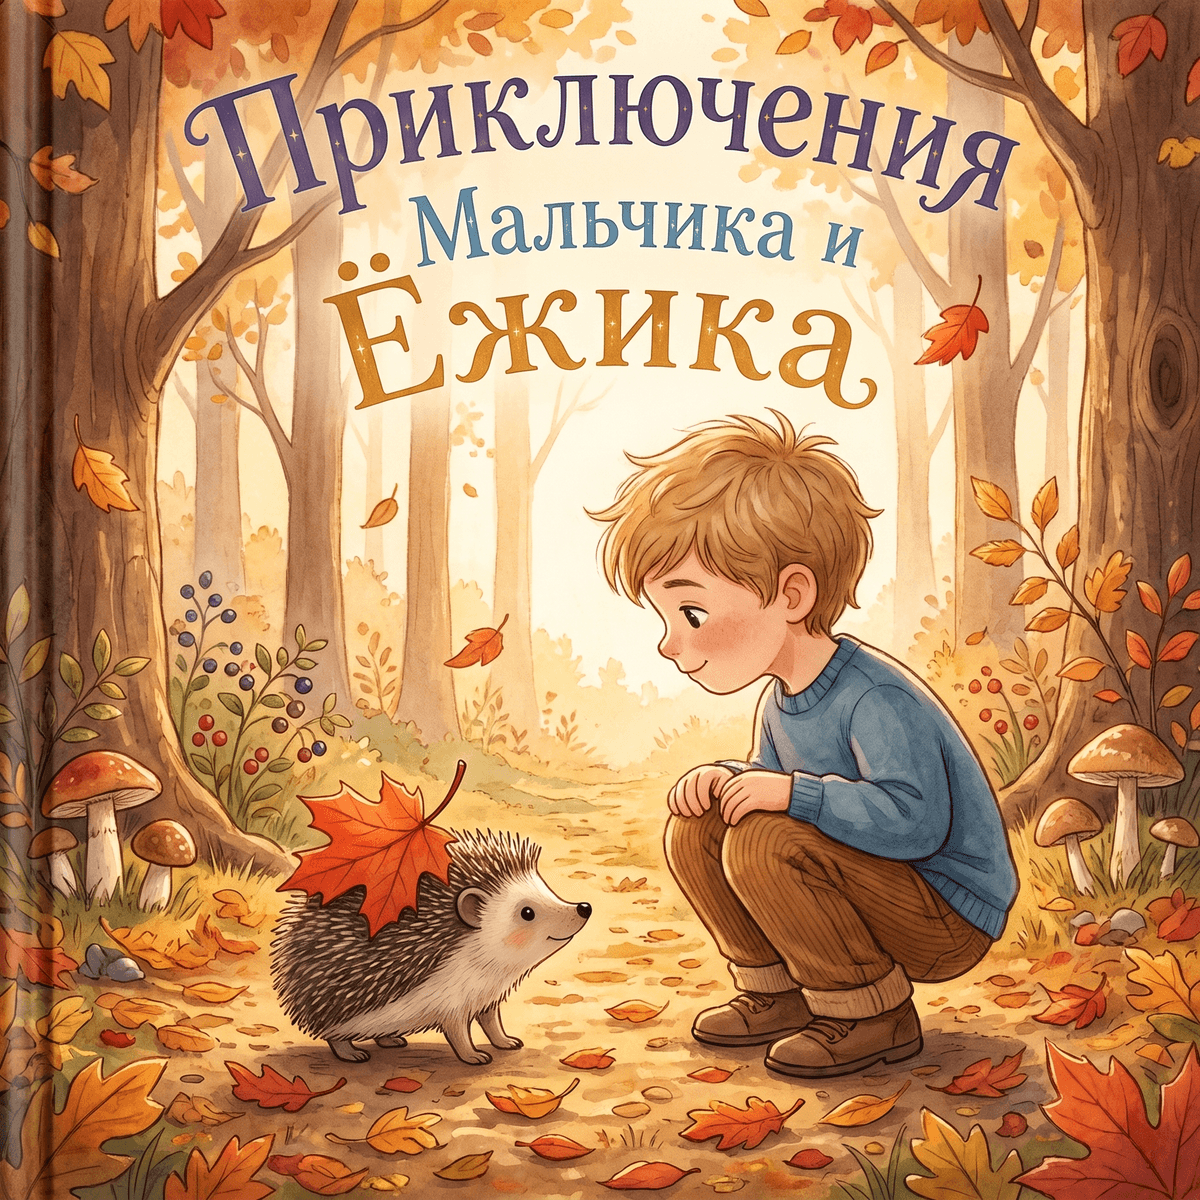
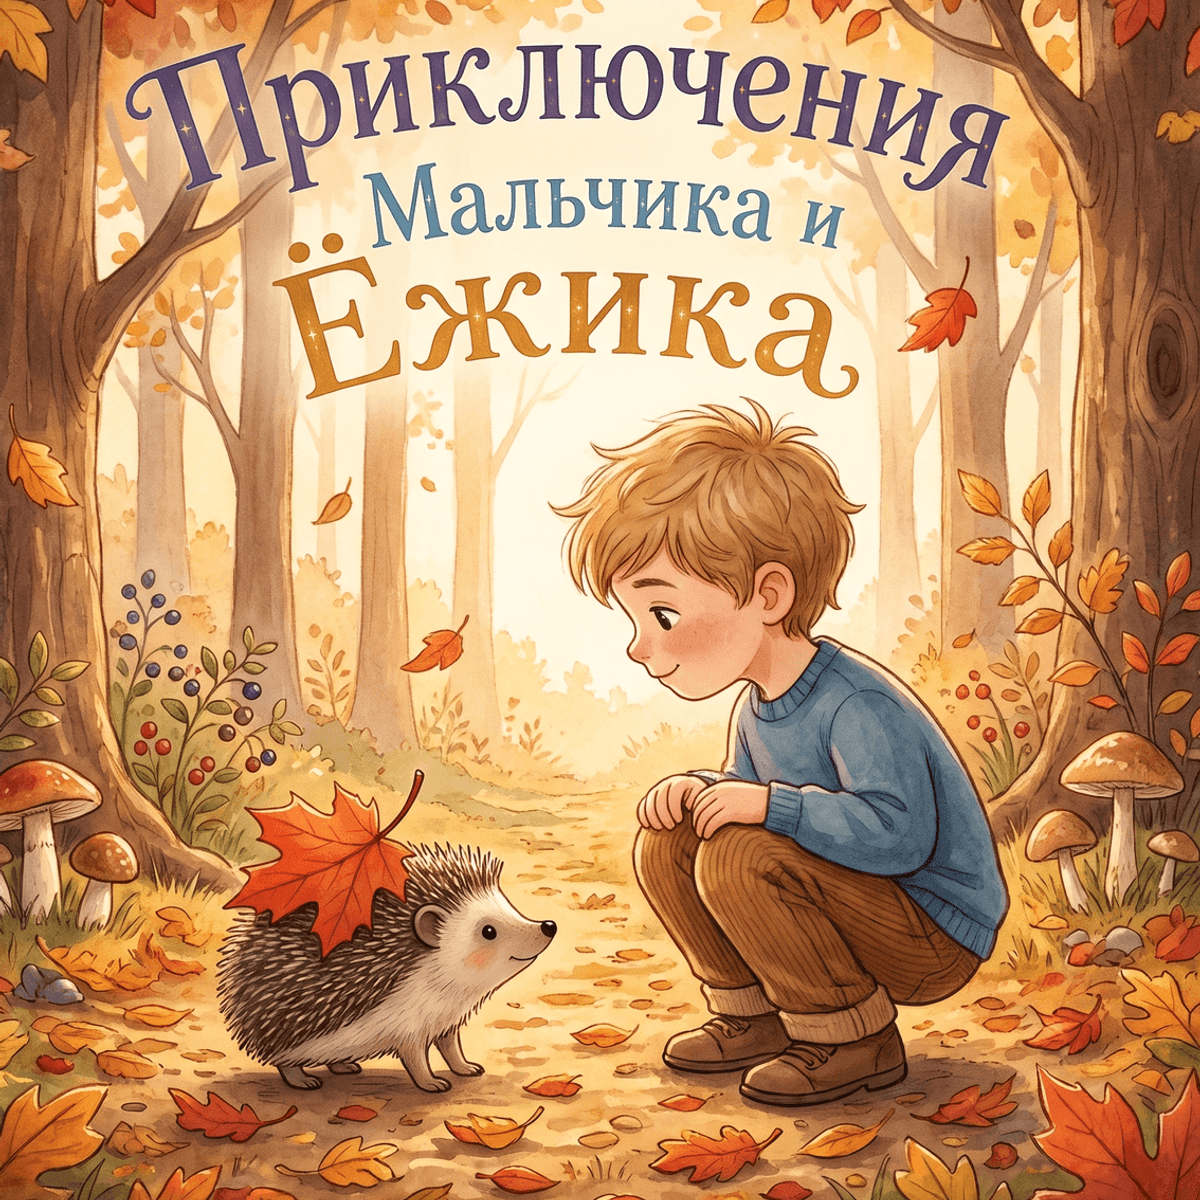
Give every cover the same binding, everywhere it appears
The spine drawn in the last commit was a translucent dark gradient laid over
the artwork. It was clearly visible on a pale sky and invisible on a dark
forest, so half the catalogue read as a bound book and half as a flat PNG —
exactly the difference between the two covers in the screenshots.

It is now structural rather than tonal: an opaque board beside the face,
not a shadow on top of it, so it looks the same however light or dark the
artwork is. Two files (boy-ezhik, boy-sovenok) still carried a baked-in
spine of their own that would have doubled with it; trimmed off the left.

The other half of the inconsistency was that four places drew covers as bare
<Image> instead of going through BookCover — the homepage hero and its pair
of stacked books, the same two arrangements on how-it-works and about — so
those covers had no binding at all no matter what the component did. They go
through BookCover now, as does the generated preview cover, which needed a
way to skip the image optimizer (it is served through a redirect the
optimizer cannot follow).

Two of those arrangements overlap exactly two covers, and both were mapping
the whole catalogue: eighteen books turned the illustration into a ribbon of
thumbnails. Capped at the pair they were drawn for.

While in the copy: three places still told visitors there were two stories
about Колёсик. There are eighteen, for ages 2 to 9. The about page counts
them from the catalogue rather than repeating a number that will go stale.

diff --git a/src/components/books/BookCover.tsx b/src/components/books/BookCover.tsx
@@ -11,6 +11,12 @@ interface BookCoverProps {
   className?: string;
   /** Adds a soft warm halo behind the cover — for hero and product moments. */
   glow?: boolean;
+  /**
+   * Skips Next's image optimizer. Required for a generated illustration: it is
+   * served from /api/uploads, which authorizes the viewer and then redirects to
+   * a short-lived signed URL, and the optimizer cannot follow that.
+   */
+  unoptimized?: boolean;
 }
 
 const sizeHints: Record<CoverSize, string> = {
@@ -20,17 +26,17 @@ const sizeHints: Record<CoverSize, string> = {
 };
 
 /**
- * A book, not a picture.
+ * A bound book, not a picture of one.
  *
- * The artwork files are flat square covers with no spine, corners or shadow —
- * deliberately, because when that presentation was baked into the images every
- * cover carried a slightly different version of it and the catalogue grid
- * showed books at visibly different sizes and finishes.
+ * The artwork files are flat cover faces. Everything that makes it read as a
+ * physical book is drawn here, so it is identical on every product however
+ * light or dark the artwork happens to be.
  *
- * It is drawn here instead, so it is identical on every product by
- * construction: a bound edge down the left, corners rounded more on the fore
- * edge than at the spine as a real hardback is, a highlight along the top where
- * the light catches the board, and a shadow underneath to lift it off the page.
+ * The spine is an opaque band with the face sitting beside it, not a shadow
+ * laid over the artwork. That was the first attempt and it failed exactly where
+ * it mattered: a translucent dark gradient is clearly visible over a pale sky
+ * and invisible over a dark forest, so half the catalogue looked bound and half
+ * looked like a flat PNG.
  */
 export default function BookCover({
   book,
@@ -38,6 +44,7 @@ export default function BookCover({
   priority = false,
   className,
   glow = false,
+  unoptimized = false,
 }: BookCoverProps) {
   return (
     <div className={cn("relative aspect-square w-full", className)}>
@@ -48,48 +55,56 @@ export default function BookCover({
         />
       )}
 
-      <div className="relative h-full w-full">
-        {/* rounded-l-sm / rounded-r-lg: a hardback's fore edge is noticeably
-            rounder than its spine, and matching that is most of what makes the
-            shape read as a book rather than a card. */}
-        <div className="relative h-full w-full overflow-hidden rounded-l-sm rounded-r-lg shadow-[0_10px_28px_-8px_rgba(74,45,26,0.35)]">
+      {/* rounded-r more than rounded-l: a hardback's fore edge is noticeably
+          rounder than its spine, and matching that is most of what makes the
+          silhouette read as a book. */}
+      <div className="relative flex h-full w-full overflow-hidden rounded-l-[3px] rounded-r-xl shadow-[0_12px_30px_-10px_rgba(74,45,26,0.45)]">
+        {/* ── The bound edge ──
+            Five stops across five percent of the width: the dark outer board,
+            the lit curve of the binding, the crease where it turns, and the
+            shadow it casts onto the face. Flat colour here reads as a printed
+            stripe; it is the curve that reads as a spine. */}
+        <div
+          aria-hidden="true"
+          className="relative h-full w-[5%] shrink-0 bg-[linear-gradient(to_right,#2f1b0f_0%,#4a2d1a_28%,#6b4630_52%,#3a2315_78%,#241109_100%)]"
+        >
+          {/* Highlight along the top edge of the boards. */}
+          <span className="absolute inset-x-0 top-0 h-[1.5%] bg-white/25" />
+        </div>
+
+        {/* ── The face ── */}
+        <div className="relative h-full flex-1">
           <Image
             src={book.image}
             alt={`Обложка книги «${book.title}»`}
             fill
             priority={priority}
+            unoptimized={unoptimized}
             sizes={sizeHints[size]}
             className="object-cover"
           />
 
-          {/* The bound edge. Two stops rather than one: a hard dark line where
-              the boards meet, then a short gradient for the curve of the spine.
-              A single flat bar reads as a printed stripe, not as binding. */}
-          <div
+          {/* Shadow the spine throws across the gutter. */}
+          <span
             aria-hidden="true"
-            className="pointer-events-none absolute inset-y-0 left-0 w-[4.5%] bg-gradient-to-r from-black/45 via-black/15 to-transparent"
+            className="pointer-events-none absolute inset-y-0 left-0 w-[7%] bg-gradient-to-r from-black/28 to-transparent"
           />
-          <div
+          {/* Light on the top board, and the fore edge turning away. */}
+          <span
             aria-hidden="true"
-            className="pointer-events-none absolute inset-y-0 left-0 w-px bg-black/30"
+            className="pointer-events-none absolute inset-x-0 top-0 h-[2%] bg-gradient-to-b from-white/20 to-transparent"
           />
-
-          {/* Light catching the top board, and the fore edge falling away. */}
-          <div
+          <span
             aria-hidden="true"
-            className="pointer-events-none absolute inset-x-0 top-0 h-[2%] bg-gradient-to-b from-white/25 to-transparent"
-          />
-          <div
-            aria-hidden="true"
-            className="pointer-events-none absolute inset-y-0 right-0 w-[1.5%] bg-gradient-to-l from-black/12 to-transparent"
-          />
-
-          {/* Keeps the artwork from bleeding into the rounded corner. */}
-          <div
-            aria-hidden="true"
-            className="pointer-events-none absolute inset-0 rounded-l-sm rounded-r-lg ring-1 ring-inset ring-black/10"
+            className="pointer-events-none absolute inset-y-0 right-0 w-[2%] bg-gradient-to-l from-black/18 to-transparent"
           />
         </div>
+
+        {/* Keeps the artwork off the rounded corner and gives the boards an edge. */}
+        <span
+          aria-hidden="true"
+          className="pointer-events-none absolute inset-0 rounded-l-[3px] rounded-r-xl ring-1 ring-inset ring-black/15"
+        />
       </div>
     </div>
   );

diff --git a/src/app/(main)/how-it-works/page.tsx b/src/app/(main)/how-it-works/page.tsx
@@ -1,6 +1,5 @@
 import type { Metadata } from "next";
 import Link from "next/link";
-import Image from "next/image";
 import {
   BookOpenCheck,
   PenLine,
@@ -9,6 +8,7 @@ import {
   Check,
   ShieldCheck,
 } from "lucide-react";
+import BookCover from "@/components/books/BookCover";
 import Reveal from "@/components/shared/Reveal";
 import SectionDivider from "@/components/shared/SectionDivider";
 import StoryVideoHero from "@/components/media/StoryVideoHero";
@@ -25,7 +25,7 @@ const steps = [
   {
     icon: BookOpenCheck,
     title: "Выберите историю",
-    text: "Две сказки о говорящем автомобильчике Колёсике — одна про мальчика, другая про девочку. Обе одинаковой длины и качества печати.",
+    text: "Истории про машинки, животных и чудеса — отдельно для мальчика и для девочки, от 2 до 9 лет. Все книги одинаковой длины и качества печати.",
   },
   {
     icon: PenLine,
@@ -59,6 +59,10 @@ export const dynamic = "force-dynamic";
 export default async function HowItWorksPage() {
   const catalogue = await getPublishedProducts();
   const heroBook = catalogue.find((b) => b.available) ?? catalogue[0];
+  // Two covers, layered like books on a table. The catalogue has grown well
+  // past the pair this arrangement was drawn for; rendering all of it turned
+  // the illustration into a ribbon of thumbnails.
+  const stack = catalogue.slice(0, 2);
 
   return (
     <>
@@ -81,14 +85,9 @@ export default async function HowItWorksPage() {
               className="shadow-elevated ring-1 ring-white/60"
               fallback={
                 <div className="relative flex h-full w-full items-center justify-center bg-gradient-to-br from-cream-200 via-cream-100 to-gold-100">
-                  <Image
-                    src={heroBook.image}
-                    alt={`Обложка книги «${heroBook.title}»`}
-                    width={520}
-                    height={520}
-                    priority
-                    className="h-[86%] w-auto object-contain drop-shadow-2xl"
-                  />
+                  <div className="w-[46%] max-w-[360px]">
+                    <BookCover book={heroBook} size="md" priority />
+                  </div>
                 </div>
               }
             />
@@ -181,19 +180,17 @@ export default async function HowItWorksPage() {
                   aria-hidden="true"
                   className="absolute inset-8 rounded-full bg-gold-200/35 blur-3xl"
                 />
-                {catalogue.map((book, i) => (
-                  <Image
+                {stack.map((book, i) => (
+                  <div
                     key={book.id}
-                    src={book.image}
-                    alt={`Обложка книги «${book.title}»`}
-                    width={440}
-                    height={440}
                     className={
                       i === 0
-                        ? "relative w-[48%] -rotate-3 rounded-3xl drop-shadow-2xl"
-                        : "relative -ml-8 w-[48%] rotate-3 rounded-3xl drop-shadow-2xl"
+                        ? "relative w-[48%] -rotate-3"
+                        : "relative z-10 -ml-8 w-[48%] rotate-3"
                     }
-                  />
+                  >
+                    <BookCover book={book} size="sm" />
+                  </div>
                 ))}
               </div>
             </Reveal>

diff --git a/src/app/(main)/page.tsx b/src/app/(main)/page.tsx
@@ -1,5 +1,4 @@
 import Link from "next/link";
-import Image from "next/image";
 import {
   BookHeart,
   Camera,
@@ -11,6 +10,7 @@ import {
   PackageOpen,
 } from "lucide-react";
 import BookCard from "@/components/books/BookCard";
+import BookCover from "@/components/books/BookCover";
 import TestimonialCard from "@/components/shared/TestimonialCard";
 import FAQAccordion from "@/components/shared/FAQAccordion";
 import Reveal from "@/components/shared/Reveal";
@@ -34,7 +34,7 @@ const steps = [
   {
     icon: BookOpenCheck,
     title: "Выберите историю",
-    text: "Две сказки о Колёсике — для мальчика и для девочки.",
+    text: "Истории про машинки, животных и чудеса — отдельно для мальчика и для девочки, от 2 до 9 лет.",
   },
   {
     icon: PenLine,
@@ -144,14 +144,9 @@ export default async function HomePage() {
                 className="shadow-elevated ring-1 ring-white/60"
                 fallback={
                   <div className="relative flex h-full w-full items-center justify-center bg-gradient-to-br from-brand-200 via-brand-100 to-cream-100">
-                    <Image
-                      src={heroBook.image}
-                      alt={`Обложка книги «${heroBook.title}»`}
-                      width={520}
-                      height={520}
-                      priority
-                      className="h-[86%] w-auto object-contain drop-shadow-2xl"
-                    />
+                    <div className="w-[62%] max-w-[360px]">
+                      <BookCover book={heroBook} size="md" priority />
+                    </div>
                   </div>
                 }
               />
@@ -276,24 +271,17 @@ export default async function HomePage() {
                 {/* Two covers, layered like books on a table */}
                 <div className="relative flex items-center justify-center">
                   {secondCover && (
-                    <Image
-                      src={secondCover.image}
-                      alt=""
-                      aria-hidden="true"
-                      width={420}
-                      height={420}
-                      className="w-[52%] -rotate-6 rounded-2xl drop-shadow-2xl"
-                    />
+                    <div aria-hidden="true" className="w-[52%] -rotate-6">
+                      <BookCover book={secondCover} size="sm" />
+                    </div>
                   )}
-                  <Image
-                    src={heroBook.image}
-                    alt={`Обложка книги «${heroBook.title}»`}
-                    width={460}
-                    height={460}
-                    className={`w-[58%] rotate-3 rounded-2xl drop-shadow-2xl ${
+                  <div
+                    className={`relative z-10 w-[58%] rotate-3 ${
                       secondCover ? "-ml-14" : ""
                     }`}
-                  />
+                  >
+                    <BookCover book={heroBook} size="md" />
+                  </div>
                 </div>
               </div>
             </Reveal>

diff --git a/src/app/(main)/about/page.tsx b/src/app/(main)/about/page.tsx
@@ -1,7 +1,7 @@
 import type { Metadata } from "next";
 import Link from "next/link";
-import Image from "next/image";
 import { Heart, Printer, ShieldCheck, Sparkles } from "lucide-react";
+import BookCover from "@/components/books/BookCover";
 import Reveal from "@/components/shared/Reveal";
 import SectionDivider from "@/components/shared/SectionDivider";
 import { getPublishedProducts } from "@/lib/products";
@@ -35,6 +35,9 @@ export const dynamic = "force-dynamic";
 
 export default async function AboutPage() {
   const catalogue = await getPublishedProducts();
+  // Two covers, overlapped. See the note in how-it-works: the arrangement only
+  // works for a pair, and the catalogue is far longer than that now.
+  const stack = catalogue.slice(0, 2);
 
   return (
     <>
@@ -57,19 +60,17 @@ export default async function AboutPage() {
 
           <Reveal delay={140} className="mx-auto mt-14 max-w-3xl">
             <div className="flex items-center justify-center">
-              {catalogue.map((book, i) => (
-                <Image
+              {stack.map((book, i) => (
+                <div
                   key={book.id}
-                  src={book.image}
-                  alt={`Обложка книги «${book.title}»`}
-                  width={440}
-                  height={440}
                   className={
                     i === 0
-                      ? "w-[46%] -rotate-3 rounded-3xl drop-shadow-2xl"
-                      : "-ml-8 w-[46%] rotate-3 rounded-3xl drop-shadow-2xl"
+                      ? "w-[46%] -rotate-3"
+                      : "relative z-10 -ml-8 w-[46%] rotate-3"
                   }
-                />
+                >
+                  <BookCover book={book} size="sm" />
+                </div>
               ))}
             </div>
           </Reveal>
@@ -93,9 +94,10 @@ export default async function AboutPage() {
                   снова и снова.
                 </p>
                 <p>
-                  Поэтому мы начали с одной истории про автомобильчика Колёсика —
-                  и сделали две её версии, для мальчика и для девочки. Сейчас
-                  работаем над продолжением серии.
+                  Мы начали с одной истории про автомобильчика Колёсика — в двух
+                  версиях, для мальчика и для девочки. Сегодня в каталоге{" "}
+                  {catalogue.length} историй для детей от 2 до 9 лет, и серия
+                  продолжает расти.
                 </p>
               </div>
             </Reveal>

diff --git a/src/components/preview/PreviewBook.tsx b/src/components/preview/PreviewBook.tsx
@@ -39,14 +39,14 @@ export default function PreviewBook({ project, job }: PreviewBookProps) {
             below the fold. */}
         {illustration ? (
           <figure>
-            <Image
-              src={`/api/uploads/${illustration.storageKey}`}
-              alt={`${personalization.childName} в иллюстрации из книги`}
-              width={720}
-              height={720}
-              unoptimized
+            <BookCover
+              book={{
+                image: `/api/uploads/${illustration.storageKey}`,
+                title: `${book.title} — ${personalization.childName}`,
+              }}
+              size="lg"
               priority
-              className="aspect-square w-full rounded-3xl object-cover"
+              unoptimized
             />
             <figcaption className="mt-3 text-center text-sm text-brown">
               {personalization.childName} в сцене из книги

diff --git a/src/data/mock.ts b/src/data/mock.ts
@@ -49,7 +49,7 @@ export const mockFAQ: FAQItem[] = [
   {
     question: "Когда появятся новые истории?",
     answer:
-      "Сейчас доступны две истории — про мальчика и про девочку. Мы работаем над продолжением серии и расскажем о новых книгах в наших соцсетях.",
+      "Каталог пополняется: сейчас в нём истории про машинки, животных, зиму и волшебство — для детей от 2 до 9 лет, отдельно для мальчика и для девочки. О новых книгах рассказываем в наших соцсетях.",
   },
 ];
 
